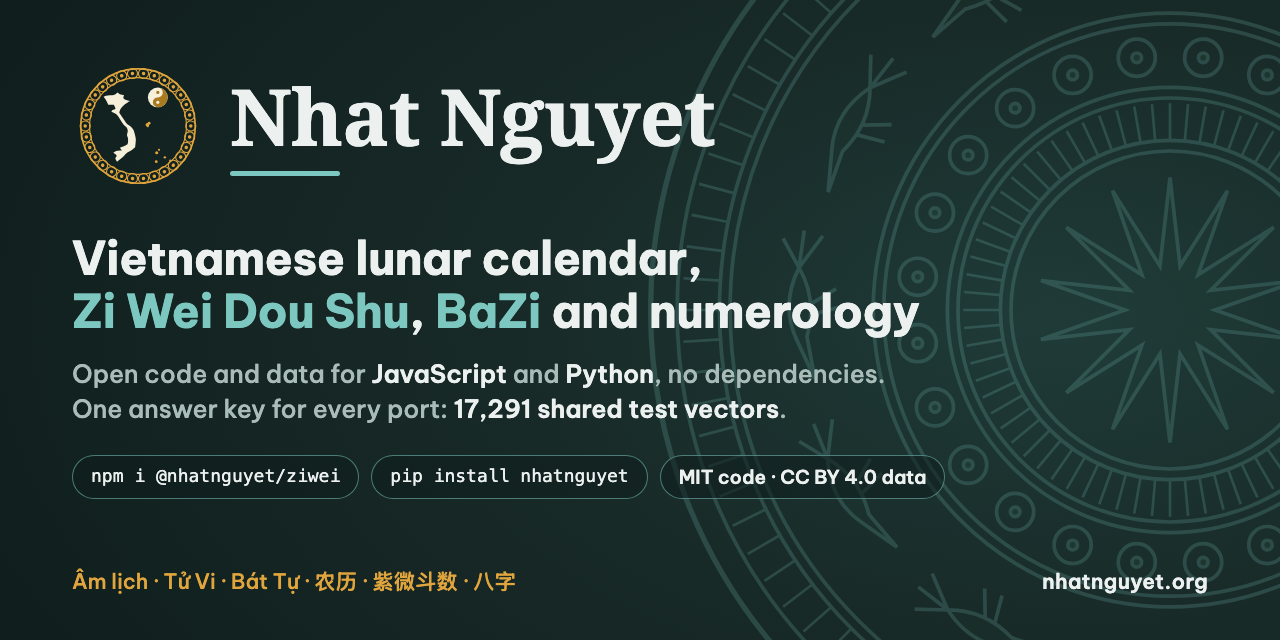
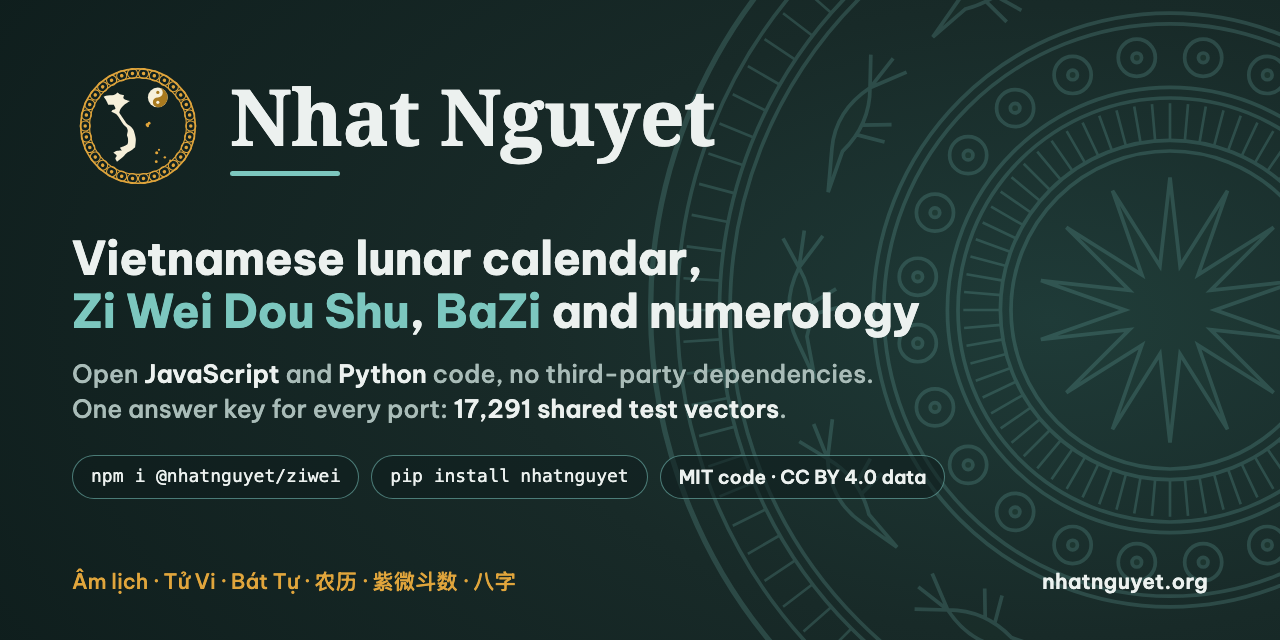
Social preview: no third-party dependencies

Changed region(s): [[0.0938, 0.5625, 0.6875, 0.625]]

diff --git a/assets/social-preview.html b/assets/social-preview.html
@@ -46,7 +46,7 @@
     <div><div class="ten">Nhat Nguyet</div><div class="gach"></div></div>
   </div>
   <h1>Vietnamese lunar calendar,<br><span>Zi Wei Dou Shu</span>, <span>BaZi</span> and numerology</h1>
-  <p class="phu">Open code and data for <b>JavaScript</b> and <b>Python</b>, no dependencies.<br>One answer key for every port: <b>17,291 shared test vectors</b>.</p>
+  <p class="phu">Open <b>JavaScript</b> and <b>Python</b> code, no third-party dependencies.<br>One answer key for every port: <b>17,291 shared test vectors</b>.</p>
   <div class="vien"><span class="ma">npm i @nhatnguyet/ziwei</span><span class="ma">pip install nhatnguyet</span><span>MIT code · CC BY 4.0 data</span></div>
 </div>
 <div class="chan"><span>Âm lịch · Tử Vi · Bát Tự · 农历 · 紫微斗数 · 八字</span><span class="web">nhatnguyet.org</span></div>
